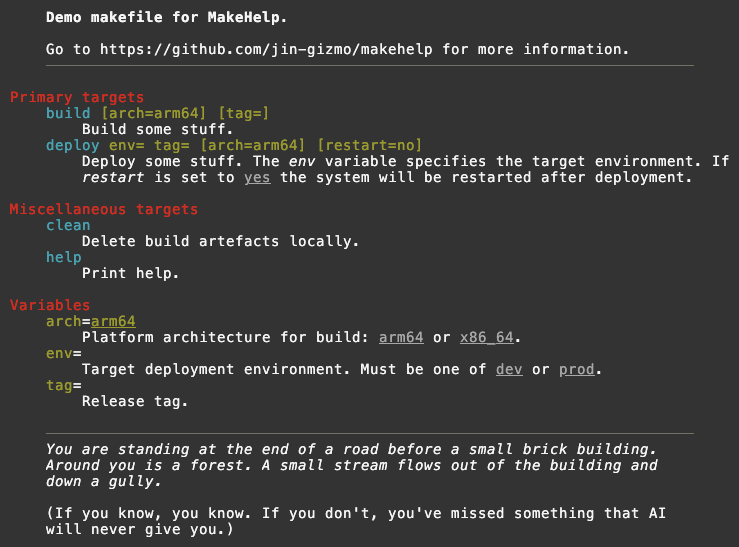
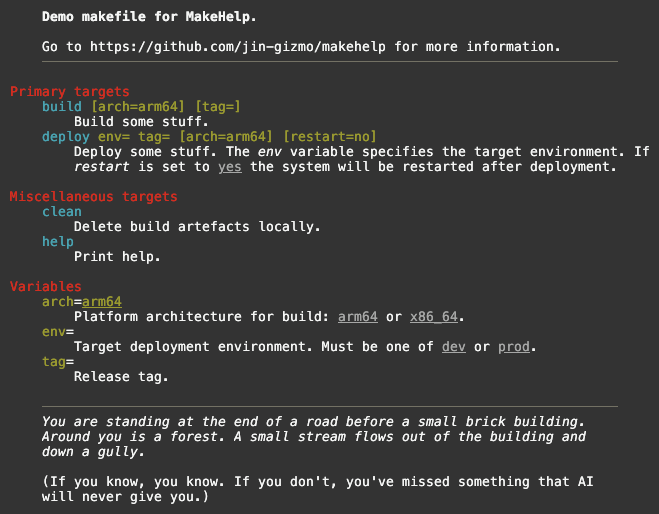
Minor tweaks, mostly to doco & tests

diff --git a/README.md b/README.md
@@ -1,7 +1,7 @@
 # Makefile Help Maker
 
 <div align="center">
-<img src="doc/img/make-help-icon.png" alt="MakeHelp Logo" width="240px" height="auto">
+<img src="doc/img/make-help-icon.png" alt="MakeHelp Logo" width="150px" height="auto">
 </div>
 
 <br clear="left"/>
@@ -154,19 +154,16 @@ included in help text using `##` as the comment marker. **MakeHelp** will
 recognise these. Comments with a single `#` are ignored.
 
 ```makefile
-# Demo makefile for **MakeHelp**.
+# Demo makefile for MakeHelp.
 
 include help.mk
 
 ## Target deployment environment: `dev` or `prod`.
 env=
-
 ## Platform architecture for build: `arm64` or `x86_64`.
 arch:=$(shell arch)
-
 ## Release tag.
 tag=
-
 restart=no
 
 ## Build some stuff.
@@ -236,13 +233,13 @@ tag=
 restart=no
 
 ## Build some stuff.
-#@opt arch
+#@opt arch tag
 build:
 	@echo Building for $(arch) ...
 
 ## Deploy some stuff. The *env* variable specifies the target environment.
 ## If *restart* is set to `yes` the system will be restarted after deployment.
-#@req env
+#@req env tag
 #@opt restart
 deploy:	preflight build
 	@echo Deploying to $(env) with restart=$(restart) ...
@@ -278,9 +275,14 @@ Key points:
     aggregated.
 
 *   By default, `#@req` and `#@opt` directives are resolved recursively down the
-    tree of dependencies. Note that because the `deploy` target depends on the
-    `build` target which accepts an optional `arch` variable, `deploy` is also
-    shown as accepting it.
+    tree of dependencies. The `deploy` target depends on the `build` target
+    which accepts an optional `arch` and `tag` variables, so `deploy` is also
+    shown as accepting them.
+
+*   The `tag` variable is *optional* for the `build` target but is upgraded to
+    *required* for the `deploy` target. Required variables override optional
+    ones.
+
 
 ## Getting Fancy
 
@@ -352,6 +354,10 @@ Key points:
     assigned until another `#@cat` directive sets a new value. The starting
     value is `Targets`.
 
+*   The `help` target is special because it is provided as part of the included
+    `help.mk`. To assign it to a non-default category, set `HELP_CATEGORY` in
+    the makefile.
+
 *   Target categories are sorted in the order in which they are first referenced.
     If targets aren't naturally sorted in the makefile, add a set of `#@cat`
     directives at the top of the file to enforce the desired order.
@@ -361,7 +367,7 @@ Key points:
 
 *   Variable categories are always shown after target categories.
 
-*   Within categories, targets and variables are always sorted alphabetically.
+*   Within categories, targets and variables are sorted alphabetically.
 
 *   `#@vcat` works exactly the same way as `#@cat` except for variables instead
     of targets. The initial variable category is `Variables`.
@@ -370,19 +376,11 @@ Key points:
     variable descriptions, including in-line styling, variable substitutions,
     filling and wrapping.
 
-*   The `help` target is special because it is provided as part of the included
-    `help.mk`. To assign it to a non-default category, set `HELP_CATEGORY` in
-    the makefile.
-    
-*   The `tag` variable is optional for the `build`
-    target but is upgraded to required for the `deploy` target. Required
-    variables override optional ones.
-
 ## Directives
 
-**MakeHelp** *directives* provide additional information and
-control for the help text. Directive are lines in the source makefile starting
-with `#@` *immediately* followed by the directive name.
+**MakeHelp** *directives* provide additional information and control for the
+help text. Directive are lines in the source makefile starting with `#@`
+*immediately* followed by the directive name.
 
 > There is no space between the `#@` and the directive name. `#@ cat` means
 > nothing to **MakeHelp**. 
@@ -392,7 +390,7 @@ with `#@` *immediately* followed by the directive name.
 | `#@cat`   | Set the current category for targets. All subsequent targets will be assigned to this category until a new value is set. The starting value is `Targets`. |
 | `#@opt`   | Declare one or more variables as optionally accepted by the next target. The directive accepts one or more string arguments of the form `name` or `name=value`. If a value is not specified in the directive, **MakeHelp** will show an existing defined value, if possible |
 | `#@req`   | Declare one or more variables as required by the next target. Details as for `#@opt`. |
-| `#@var`   | Declare the value of a **make** variable for use by **MakeHelp**. The directive accepts a string argument in the form `name=value`.  This is used by the provided `help.mk` makefile to pass **make** variables to **MakeHelp**. It is almost never needed in a user makefile. |
+| `#@var`   | Declare the value of a **make** variable for use by **MakeHelp**. The directive accepts a string argument in the form `name=value`.  This is used by the provided `help.mk` makefile to pass **make** variables to **MakeHelp**. It should rarely be needed in a user makefile. |
 | `#@vcat`  | Set the current category for variables. All subsequent variables will be assigned to this category until a new value is set. The starting value is `Variables`. |
 
 ## Make Variables used by MakeHelp
@@ -404,7 +402,7 @@ makefile to control elements of its behaviour.
 | ------------------- | ------------------------------------------------------------ |
 | `HELP_CATEGORY`     | Specifies the category to which the `help` target is assigned. Set it to `none` to exclude the `help` target from the help documentation. Defaults to `Targets`. |
 | `HELP_DEPENDENCIES` | If set to `no`, don't include the variable requirements of dependencies of targets. By default, variable requirements of any dependencies of a target are (recursively) added to those of the target itself as declared in `#@req` and `#@opt` directives. |
-| `HELP_HR`           | If set to `yes`, add horizontal rules after the prologue and before the epilogue. This may not work in some terminals (e.g. macOS Terminal.app) but it's harmless. |
+| `HELP_HR`           | If set to `yes`, add horizontal rules after the prologue and before the epilogue. This may not work in some terminals (e.g. macOS Terminal.app) but it's harmless. Defaults to `no`. |
 | `HELP_SORT`         | By default, categories are sorted in the order in which they are first referenced. Set `HELP_SORT` to `alpha` so sort categories alphabetically. |
 | `HELP_THEME`        | Colour theme for generated help. Options are `basic` (the default), `light`, `dark` and `none`. The latter removes all ANSI escape sequences used to colour text. |
 | `HELP_WIDTH`        | Specifies the terminal width (columns) for filling and wrapping of descriptions. Defaults to the actual terminal width. The minimum allowed value is 65. |
